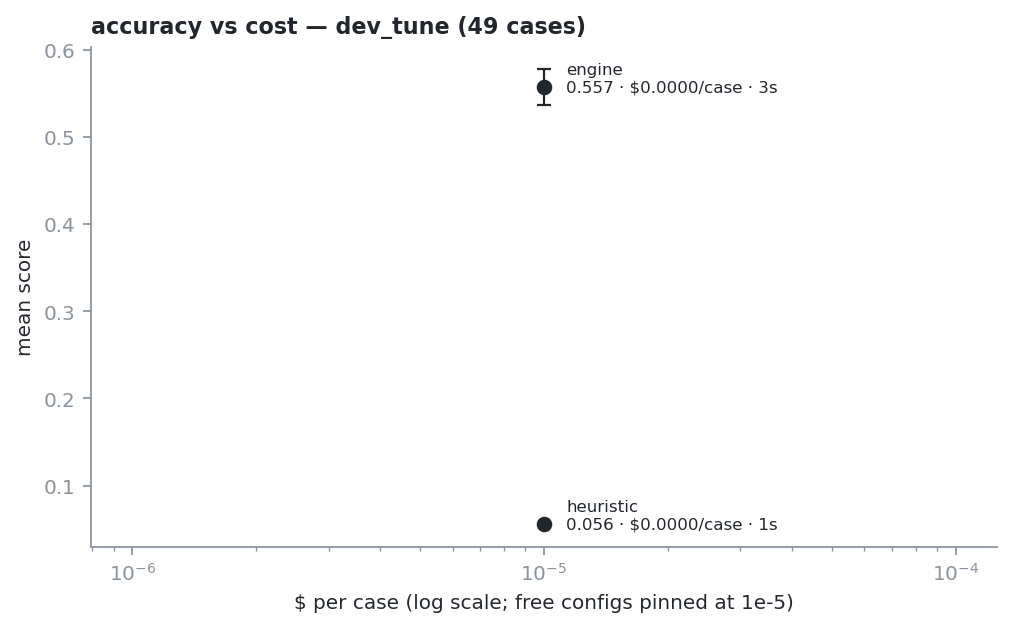
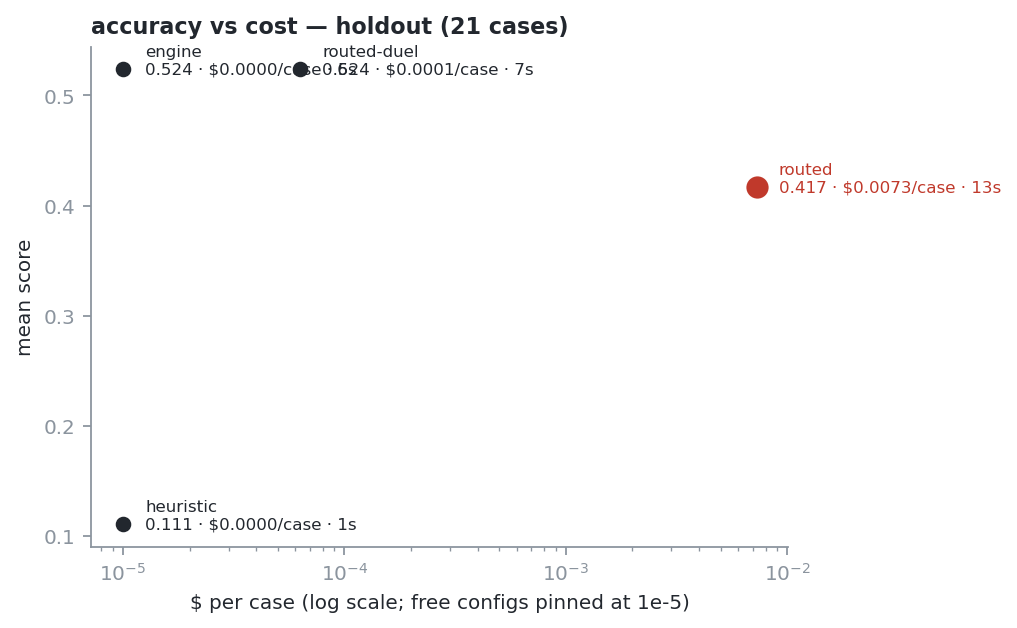
feat(figures): holdout comparison table as a figure, rendered from runs.csv so it cannot drift

diff --git a/scripts/make_figures.py b/scripts/make_figures.py
@@ -199,6 +199,53 @@ def fig_pipeline(out: Path) -> None:
     fig.tight_layout(); fig.savefig(out, bbox_inches="tight"); plt.close(fig)
 
 
+def fig_holdout_table(runs: Path, out: Path) -> None:
+    """The holdout comparison, rendered from eval/results/runs.csv so the figure cannot drift
+    from the committed numbers."""
+    if not runs.exists():
+        print("no runs.csv, skipping the table figure"); return
+    d = pd.read_csv(runs)
+    d = d[d.split == "holdout"].drop_duplicates(subset=["config", "repeat"], keep="last")
+    if d.empty:
+        print("no holdout rows, skipping the table figure"); return
+    calls = {"engine": "none", "routed-duel": "5 of 21 cases", "routed": "16 of 20 cases",
+             "heuristic": "none"}
+    order = ["engine", "routed-duel", "routed", "heuristic"]
+    label = {"engine": "engine  (no model calls)", "routed-duel": "routed-duel  ← SHIPPED",
+             "routed": "routed  (full escalation)", "heuristic": "heuristic  (starter baseline)"}
+    rows = []
+    for cfg in order:
+        r = d[d.config == cfg]
+        if r.empty:
+            continue
+        r = r.iloc[0]
+        rows.append([label.get(cfg, cfg), f"{r.mean_score:.3f}", f"{int(r.fully_solved)}/{int(r.n)}",
+                     f"${r.dollars_mean:.6f}", f"{r.s_per_case_mean:.1f}", calls.get(cfg, "—")])
+    cols = ["holdout · 21 cases, never tuned on", "partial", "strict", "$/case", "s/case", "model calls"]
+    fig, ax = plt.subplots(figsize=(11.5, 0.46 * (len(rows) + 2.6)))
+    ax.axis("off")
+    ax.set_position([0, 0, 1, 0.78])
+    t = ax.table(cellText=rows, colLabels=cols, cellLoc="center", loc="center",
+                 colWidths=[0.34, 0.11, 0.1, 0.14, 0.11, 0.2])
+    t.auto_set_font_size(False); t.set_fontsize(11); t.scale(1, 1.75)
+    for (r_, c_), cell in t.get_celld().items():
+        cell.set_edgecolor("#d7dbe0")
+        if r_ == 0:
+            cell.set_facecolor("#eef1f4"); cell.set_text_props(weight="bold", color=INK)
+        else:
+            cfg = order[r_ - 1]
+            ship = cfg == "routed-duel"
+            cell.set_facecolor("#fbf3f2" if ship else "white")
+            cell.set_text_props(weight="bold" if ship else "normal", color=HL if ship else INK)
+        if c_ == 0:
+            cell.set_text_props(ha="left"); cell.PAD = 0.04
+    ax.set_title("Same accuracy, 115× cheaper — and the model still gets a say\n"
+                 "the shipped config consults a cheap GLM only where the engine is torn: on 5 of 21 "
+                 "cases it kept the engine's pick 4 times, overrode it once,\nand the two cases that "
+                 "moved cancelled out (won one, lost one)", loc="left", fontsize=10.5, pad=10, y=1.02)
+    fig.tight_layout(); fig.savefig(out, bbox_inches="tight", facecolor="white"); plt.close(fig)
+
+
 def fig_cost(runs: Path, out: Path) -> None:
     """Panel 3: the accuracy-vs-cost curve, from eval/results/runs.csv (holdout rows if present)."""
     if not runs.exists():
@@ -238,6 +285,7 @@ def main() -> None:
     fig_signal(a, w, OUT / "signal.png")
     fig_topology(a, w, OUT / "topology.png")
     fig_cost(ROOT / "eval" / "results" / "runs.csv", OUT / "cost.png")
+    fig_holdout_table(ROOT / "eval" / "results" / "runs.csv", OUT / "holdout_table.png")
     print("wrote", ", ".join(str(p.relative_to(ROOT)) for p in sorted(OUT.glob("*.png"))))
 
 
